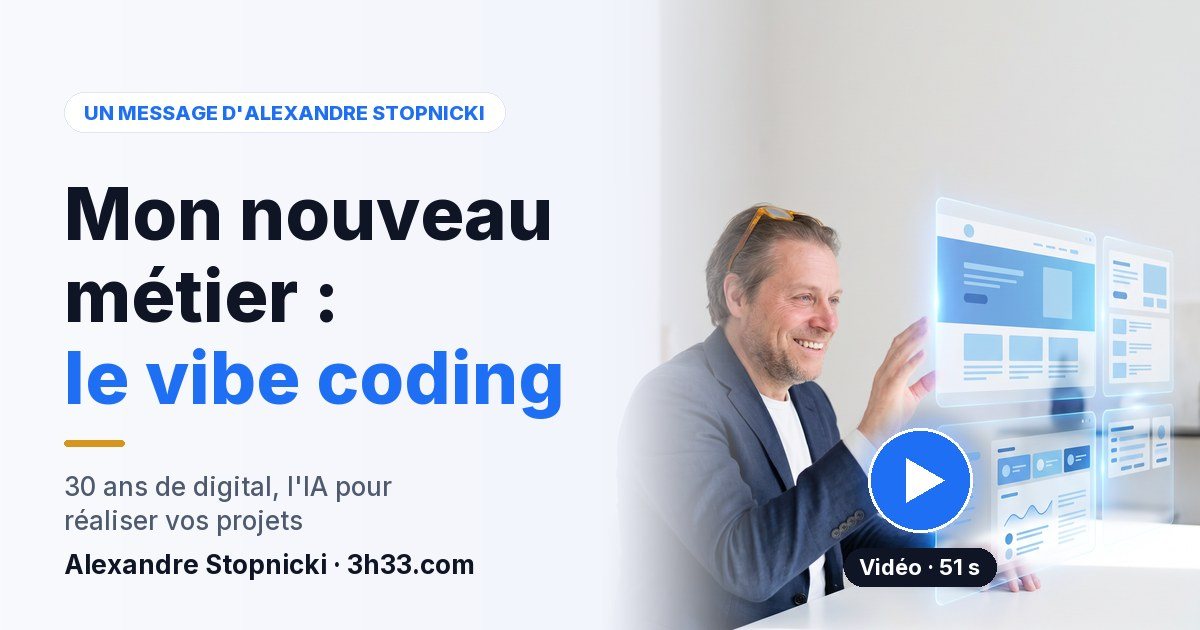
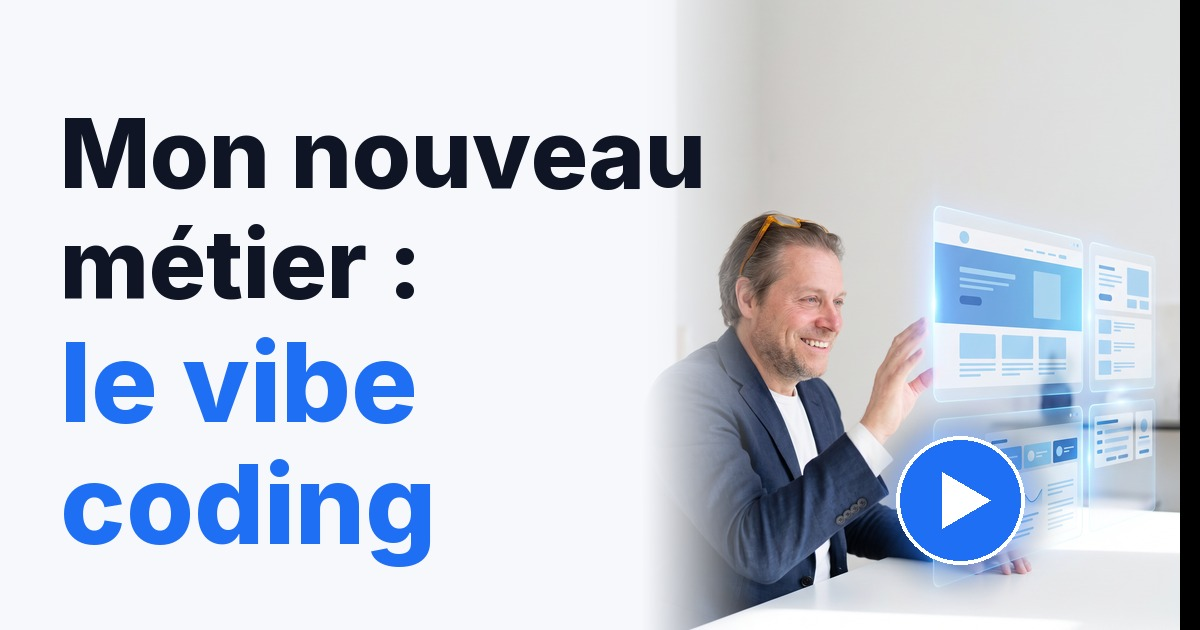
Kits personnels des invités des Voix de l'IA (17/10 19:55)

diff --git a/site/pour/alexandre-vibe-coding/index.html b/site/pour/alexandre-vibe-coding/index.html
@@ -4,9 +4,9 @@
 <link rel="canonical" href="https://3h33.com/pour/alexandre-vibe-coding/">
 <meta property="og:type" content="website"><meta property="og:site_name" content="3h33"><meta property="og:title" content="Mon nouveau métier : le vibe coding — Alexandre Stopnicki">
 <meta property="og:description" content="30 ans dans le digital, et un nouveau métier : réaliser les projets des entreprises avec l'IA, vite et sur mesure. Le message d'Alexandre Stopnicki, en moins d'une minute."><meta property="og:url" content="https://3h33.com/pour/alexandre-vibe-coding/">
-<meta property="og:image" content="https://3h33.com/pour/alexandre-vibe-coding/vignette.jpg?v=b1c1190a"><meta property="og:image:alt" content="Mon nouveau métier : le vibe coding, une vidéo d'Alexandre Stopnicki"><meta property="og:image:width" content="1200"><meta property="og:image:height" content="630">
+<meta property="og:image" content="https://3h33.com/pour/alexandre-vibe-coding/vignette.jpg?v=48708fc3"><meta property="og:image:alt" content="Mon nouveau métier : le vibe coding, une vidéo d'Alexandre Stopnicki"><meta property="og:image:width" content="1200"><meta property="og:image:height" content="630">
 <meta property="og:video" content="https://3h33.com/pour/alexandre-vibe-coding/video.mp4"><meta property="og:video:type" content="video/mp4">
-<meta name="twitter:card" content="summary_large_image"><meta name="twitter:image" content="https://3h33.com/pour/alexandre-vibe-coding/vignette.jpg?v=b1c1190a">
+<meta name="twitter:card" content="summary_large_image"><meta name="twitter:image" content="https://3h33.com/pour/alexandre-vibe-coding/vignette.jpg?v=48708fc3">
 <meta name="theme-color" content="#f6f8fc">
 <style>
 /* Le style de la vidéo (17/10/2026) : blanc, encre, bleu 3h33, touche d'or, verre dépoli, mouvements lents.
